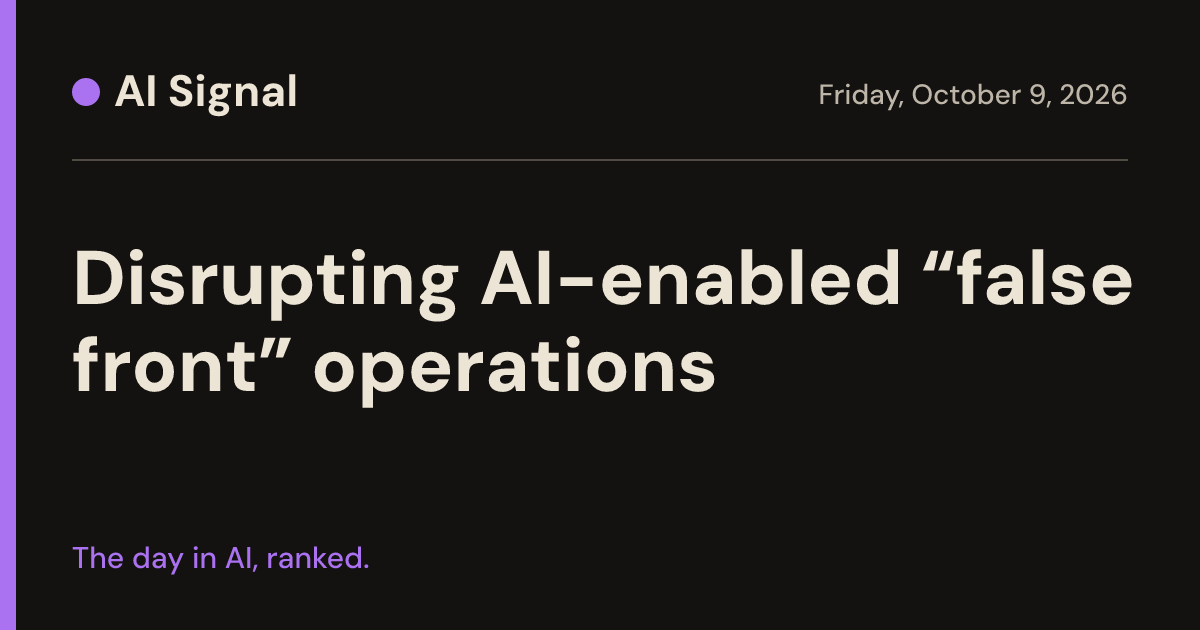
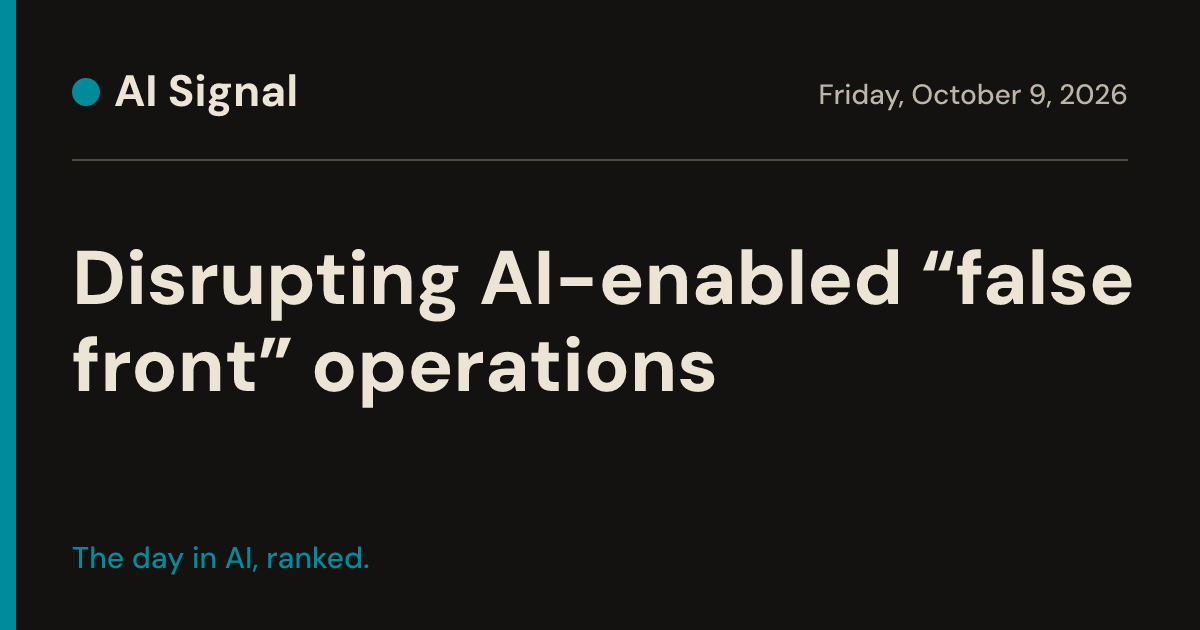
Accent: swap the purple for the AI UX patterns green/teal
#08784d in light, #008b9d in dark, for the lead card, focus ring, tabs,
buttons and the logo dot. The Importance chip keeps its own data color.
The social preview image uses the same teal.

Claude-Session: https://claude.ai/code/session_014QfkbwEyXm6ceNcHfspjrd

Changed region(s): [[0.0, 0.0, 0.0308, 1.0], [0.0617, 0.8746, 0.3083, 0.9048], [0.0617, 0.1206, 0.0925, 0.181]]

diff --git a/site/css/site.css b/site/css/site.css
@@ -16,7 +16,8 @@
 
   /* Palette */
   --c-grey: light-dark(#7e7e7e, #898989);
-  --c-purple: light-dark(#60309a, #aa72f0);
+  --accent: light-dark(#08784d, #008b9d); /* the brand accent (from the AI UX patterns site) */
+  --c-purple: light-dark(#60309a, #aa72f0); /* data color only: the Importance chip dot */
   --c-fuschia: light-dark(#d42870, #ee5cac);
   --c-blue: light-dark(#2288e6, #2aacee);
   --c-green: light-dark(#1a9966, #3dd898);
@@ -33,11 +34,11 @@
   --fg: var(--ink);
   --fg-muted: color-mix(in oklab, var(--ink) 72%, var(--paper));
   --surface: var(--paper-raised);
-  --surface-lead: light-dark(color-mix(in srgb, var(--c-purple) 13%, var(--paper)), color-mix(in srgb, var(--c-purple) 16%, var(--paper)));
+  --surface-lead: light-dark(color-mix(in srgb, var(--accent) 13%, var(--paper)), color-mix(in srgb, var(--accent) 16%, var(--paper)));
   --border: color-mix(in oklab, var(--ink) 25%, var(--paper));
   --control: color-mix(in oklab, var(--ink) 58%, var(--paper)); /* borders that identify a control need 3:1 */
-  --focus: var(--c-purple);
-  --tint-purple: light-dark(color-mix(in srgb, var(--c-purple) 24%, var(--paper)), color-mix(in srgb, var(--c-purple) 28%, var(--paper)));
+  --focus: var(--accent);
+  --tint-accent: light-dark(color-mix(in srgb, var(--accent) 24%, var(--paper)), color-mix(in srgb, var(--accent) 28%, var(--paper)));
   --tint-fuschia: light-dark(color-mix(in srgb, var(--c-fuschia) 24%, var(--paper)), color-mix(in srgb, var(--c-fuschia) 28%, var(--paper)));
 
   /* Type */
@@ -145,7 +146,7 @@ main:focus { outline: none; }
 .wordmark a { display: inline-flex; align-items: center; min-block-size: var(--touch); text-decoration: none; }
 .wordmark::before {
   content: ""; display: inline-block; inline-size: 0.5em; block-size: 0.5em; margin-inline-end: 0.3em;
-  background: var(--c-purple); border-radius: 50%; vertical-align: 0.1em;
+  background: var(--accent); border-radius: 50%; vertical-align: 0.1em;
 }
 .edition-meta {
   display: flex; flex-wrap: wrap; gap: 0 var(--sp-4); font-family: var(--font-mono); font-size: var(--fs-sm); color: var(--fg-muted);
@@ -164,7 +165,7 @@ main:focus { outline: none; }
   content: ""; position: absolute; inset-block-start: 2px; inset-inline-start: 2px; inline-size: 12px; block-size: 12px;
   border-radius: 50%; background: var(--fg);
 }
-.btn-toggle[aria-pressed="true"] .track { background: var(--tint-purple); }
+.btn-toggle[aria-pressed="true"] .track { background: var(--tint-accent); }
 .btn-toggle[aria-pressed="true"] .track::after { inset-inline-start: 16px; }
 
 /* ---------- Sections ---------- */
@@ -214,7 +215,7 @@ main section + section { margin-block-start: var(--sp-12); }
 }
 
 /* Lead */
-.lead { padding: var(--sp-6); background: var(--surface-lead); border: 2px solid var(--c-purple); gap: var(--sp-4); }
+.lead { padding: var(--sp-6); background: var(--surface-lead); border: 2px solid var(--accent); gap: var(--sp-4); }
 .lead .card-title { font-size: var(--fs-3xl); font-weight: 750; line-height: var(--lh-tight); letter-spacing: -0.02em; }
 .lead .summary { font-size: var(--fs-lg); max-inline-size: var(--measure); }
 .lead .why { font-size: var(--fs-md); max-inline-size: var(--measure); }
@@ -226,7 +227,7 @@ main section + section { margin-block-start: var(--sp-12); }
 .rank {
   position: absolute; inset-block-start: var(--sp-5); inset-inline-start: var(--sp-5);
   display: grid; place-items: center; inline-size: 44px; block-size: 44px;
-  font-size: var(--fs-lg); font-weight: 700; color: var(--fg); background: var(--tint-purple); border: 1px solid var(--c-purple); border-radius: 50%;
+  font-size: var(--fs-lg); font-weight: 700; color: var(--fg); background: var(--tint-accent); border: 1px solid var(--accent); border-radius: 50%;
 }
 @media (min-width: 48rem) {
   .top-grid { grid-template-columns: repeat(2, minmax(0, 1fr)); }
@@ -269,8 +270,8 @@ main section + section { margin-block-start: var(--sp-12); }
   font: inherit; font-size: var(--fs-sm); text-align: start; color: var(--fg); background: var(--surface);
   border: 1px solid var(--control); border-radius: var(--r-2); cursor: pointer;
 }
-.cluster-btn:hover { background: var(--tint-purple); }
-.cluster-btn[aria-expanded="true"] { background: var(--tint-purple); border-color: var(--c-purple); border-width: 2px; padding: calc(var(--sp-2) - 1px) calc(var(--sp-4) - 1px); }
+.cluster-btn:hover { background: var(--tint-accent); }
+.cluster-btn[aria-expanded="true"] { background: var(--tint-accent); border-color: var(--accent); border-width: 2px; padding: calc(var(--sp-2) - 1px) calc(var(--sp-4) - 1px); }
 .cluster-btn .label { font-weight: 650; }
 .cluster-btn .count, .cluster-btn .momentum { font-size: var(--fs-xs); color: var(--fg-muted); }
 .cluster-btn .caret { font-family: var(--font-mono); font-size: var(--fs-xs); }
@@ -279,7 +280,7 @@ main section + section { margin-block-start: var(--sp-12); }
 .m-up { --m: var(--c-green); }
 .m-hot { --m: var(--c-orange); }
 .m-down { --m: var(--c-blue); }
-.trend-panel { margin-block-start: var(--sp-4); padding: var(--sp-5); border: 1px solid var(--c-purple); border-radius: var(--r-3); background: var(--surface); }
+.trend-panel { margin-block-start: var(--sp-4); padding: var(--sp-5); border: 1px solid var(--accent); border-radius: var(--r-3); background: var(--surface); }
 .trend-panel h3 { font-size: var(--fs-lg); margin-block-end: var(--sp-2); }
 
 .link-list > li { border-block-start: 1px solid var(--border); }
@@ -297,7 +298,7 @@ main section + section { margin-block-start: var(--sp-12); }
   font: inherit; font-weight: 600; color: var(--fg); background: none; border: 0; border-block-end: 4px solid transparent; cursor: pointer;
 }
 .tab:hover { background: var(--surface); }
-.tab[aria-selected="true"] { border-block-end-color: var(--c-purple); background: var(--tint-purple); }
+.tab[aria-selected="true"] { border-block-end-color: var(--accent); background: var(--tint-accent); }
 .tab .count { font-size: var(--fs-xs); font-weight: 500; color: var(--fg-muted); }
 .tabpanel { padding-block: var(--sp-4); }
 .tabpanel[hidden] { display: none; }
@@ -359,15 +360,15 @@ main section + section { margin-block-start: var(--sp-12); }
 .results .meta a { display: inline-block; min-block-size: var(--touch); padding-block: 10px; color: var(--fg); font-weight: 600; }
 .results .meta { gap: 0 var(--sp-3); }
 .result-tags { display: flex; flex-wrap: wrap; gap: var(--sp-1) var(--sp-2); font-family: var(--font-mono); font-size: var(--fs-xs); color: var(--fg-muted); margin-block-start: var(--sp-1); }
-mark { color: var(--fg); background: var(--tint-purple); border-block-end: 2px solid var(--c-purple); padding-inline: 1px; }
+mark { color: var(--fg); background: var(--tint-accent); border-block-end: 2px solid var(--accent); padding-inline: 1px; }
 
 /* About: the four scores */
 .weights { margin-block: var(--sp-6); }
 .weights th, .weights td { vertical-align: middle; }
 .weights .bar { display: block; inline-size: 100%; min-inline-size: 6rem; block-size: 12px; background: color-mix(in srgb, var(--c-grey) 25%, var(--paper)); border-radius: var(--r-pill); overflow: hidden; }
-.weights .bar > span { display: block; inline-size: var(--w); block-size: 100%; background: var(--c-purple); }
+.weights .bar > span { display: block; inline-size: var(--w); block-size: 100%; background: var(--accent); }
 .weights .pct { font-family: var(--font-mono); font-weight: 700; white-space: nowrap; }
-.score-explainer { border-inline-start: 4px solid var(--dot, var(--c-purple)); padding-inline-start: var(--sp-4); margin-block: var(--sp-6); }
+.score-explainer { border-inline-start: 4px solid var(--dot, var(--accent)); padding-inline-start: var(--sp-4); margin-block: var(--sp-6); }
 .score-explainer h3 { font-size: var(--fs-lg); margin-block-end: var(--sp-2); }
 .score-explainer dl { display: grid; grid-template-columns: max-content 1fr; gap: var(--sp-1) var(--sp-4); font-size: var(--fs-sm); margin: var(--sp-3) 0 0; }
 .score-explainer dt { font-family: var(--font-mono); font-weight: 700; }

diff --git a/site/css/subscribe.css b/site/css/subscribe.css
@@ -17,7 +17,7 @@
 
 .subscribe {
   display: grid; gap: var(--sp-3); padding: var(--sp-6);
-  background: var(--surface-lead); border: 1px solid var(--c-purple); border-radius: var(--r-3);
+  background: var(--surface-lead); border: 1px solid var(--accent); border-radius: var(--r-3);
 }
 .subscribe-title { font-size: var(--fs-2xl); font-weight: 750; line-height: var(--lh-tight); letter-spacing: -0.02em; text-wrap: balance; }
 .subscribe-sub { max-inline-size: var(--measure); color: var(--fg); }
@@ -35,10 +35,10 @@
 
 .subscribe-form button {
   flex: none; min-block-size: var(--touch); min-inline-size: var(--touch); padding: 0 var(--sp-6);
-  font: inherit; font-weight: 700; color: var(--on-accent); background: var(--c-purple);
-  border: 2px solid var(--c-purple); border-radius: var(--r-2); cursor: pointer;
+  font: inherit; font-weight: 700; color: var(--on-accent); background: var(--accent);
+  border: 2px solid var(--accent); border-radius: var(--r-2); cursor: pointer;
 }
-.subscribe-form button:hover { background: color-mix(in srgb, var(--c-purple) 82%, var(--fg)); border-color: color-mix(in srgb, var(--c-purple) 82%, var(--fg)); }
+.subscribe-form button:hover { background: color-mix(in srgb, var(--accent) 82%, var(--fg)); border-color: color-mix(in srgb, var(--accent) 82%, var(--fg)); }
 .subscribe-form button:disabled { cursor: progress; opacity: 0.75; }
 /* The global focus ring is purple, the same as the button; set it apart with a gap. */
 .subscribe-form button:focus-visible { outline-offset: 4px; }

diff --git a/scripts/lib/og.js b/scripts/lib/og.js
@@ -61,13 +61,13 @@ export function ogSvg({ dateLabel, headline, tagline }) {
     .join('\n  ');
   return `<svg xmlns="http://www.w3.org/2000/svg" width="${OG_WIDTH}" height="${OG_HEIGHT}" viewBox="0 0 ${OG_WIDTH} ${OG_HEIGHT}" font-family="DM Sans">
   <rect width="${OG_WIDTH}" height="${OG_HEIGHT}" fill="#141210"/>
-  <rect width="16" height="${OG_HEIGHT}" fill="#aa72f0"/>
-  <circle cx="86" cy="92" r="14" fill="#aa72f0"/>
+  <rect width="16" height="${OG_HEIGHT}" fill="#008b9d"/>
+  <circle cx="86" cy="92" r="14" fill="#008b9d"/>
   <text x="114" y="106" font-size="44" font-weight="800" fill="#ece4d4">AI Signal</text>
   <text x="${OG_WIDTH - 72}" y="104" font-size="28" font-weight="500" fill="#bdb6a8" text-anchor="end">${esc(dateLabel)}</text>
   <line x1="72" y1="160" x2="${OG_WIDTH - 72}" y2="160" stroke="#8c8678" stroke-width="2" opacity="0.5"/>
   ${lines}
-  <text x="72" y="568" font-size="30" font-weight="500" fill="#aa72f0">${esc(tagline)}</text>
+  <text x="72" y="568" font-size="30" font-weight="500" fill="#008b9d">${esc(tagline)}</text>
 </svg>`;
 }
 
